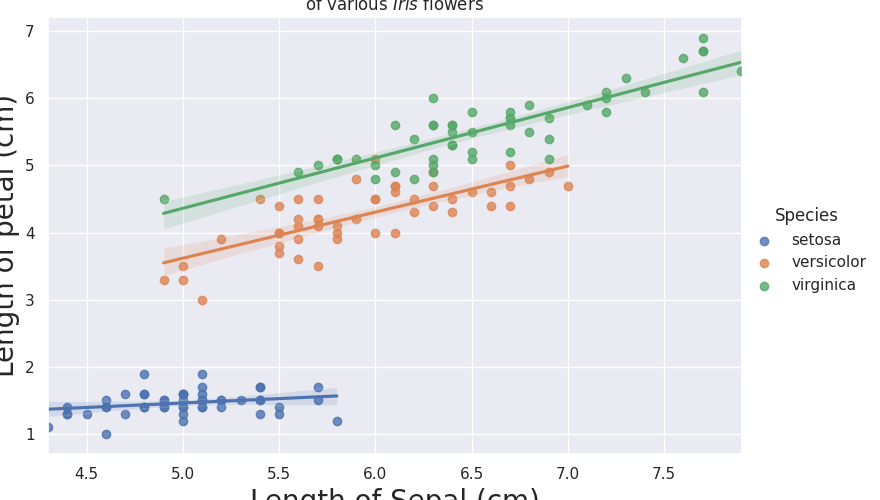
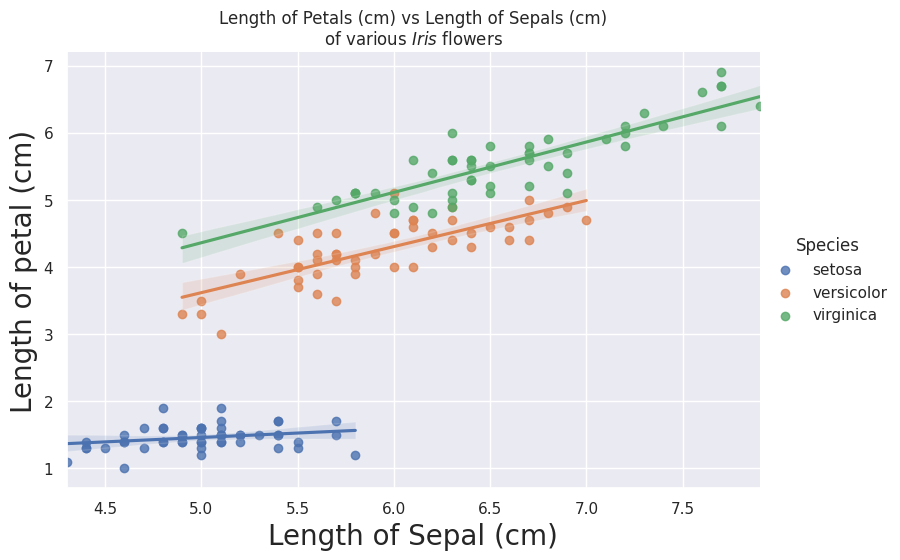
Ahh

diff --git a/sps_workshops/Visualisation_In_Python.md b/sps_workshops/Visualisation_In_Python.md
@@ -168,7 +168,7 @@ plt.xticks(fontsize = 15)
 plt.yticks(fontsize = 15)
 plt.show()
 ```
-![Added_stat_smooth_line](https://raw.githubusercontent.com/nus-sps/workshops-R/main/assets/images/iris_PLvsSLLMline.jpg)
+![Added_stat_smooth_lineP](https://raw.githubusercontent.com/darren1998s/darren1998s.github.io/main/assets/images/Python/scatterWithLabeland%20linreg.png)
 
 Let us compare with our base graph from earlier to the one we have now!
 
